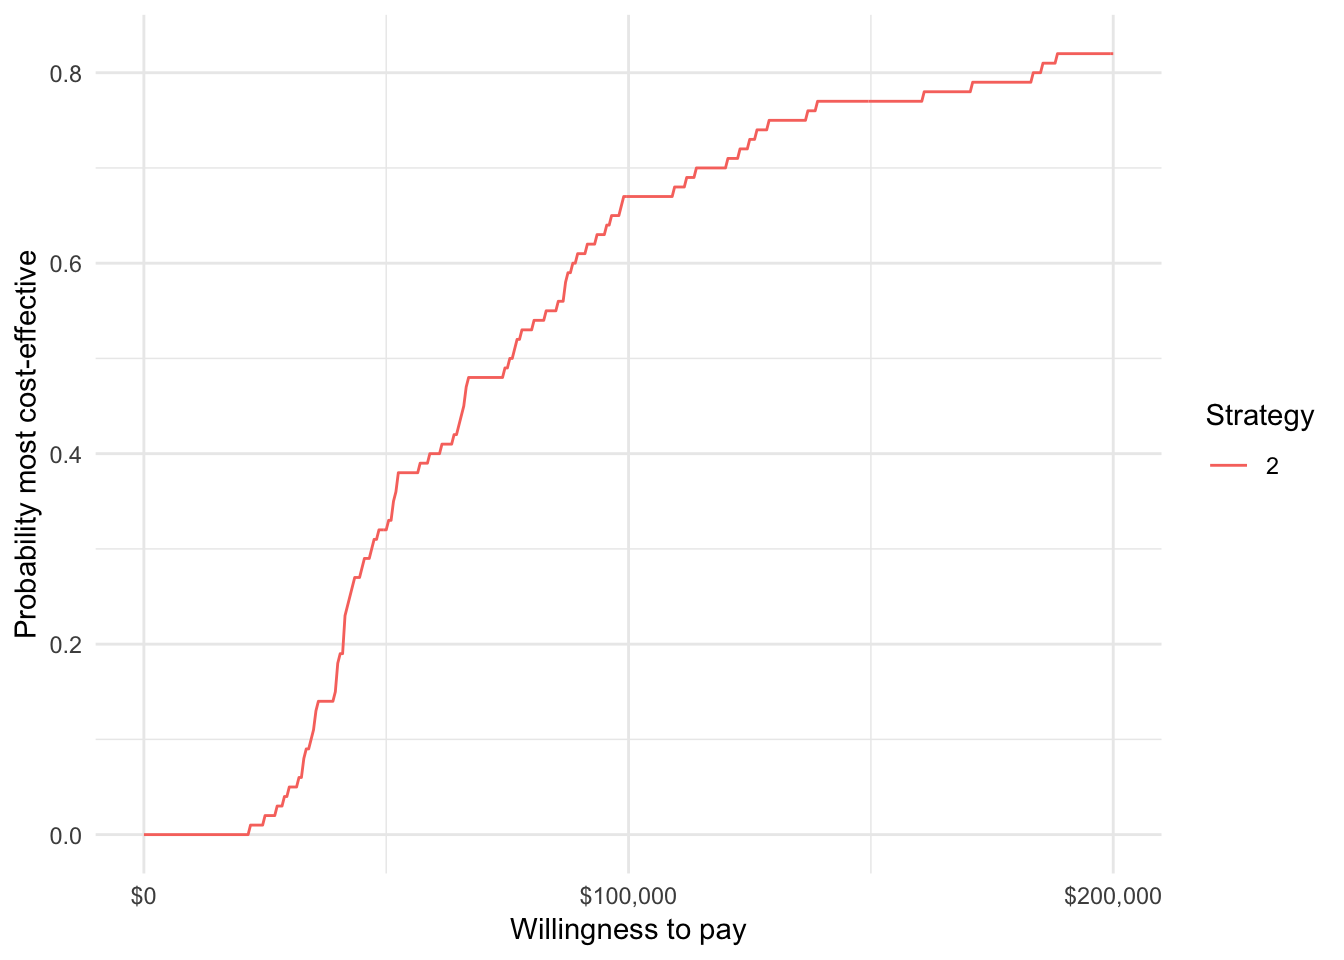
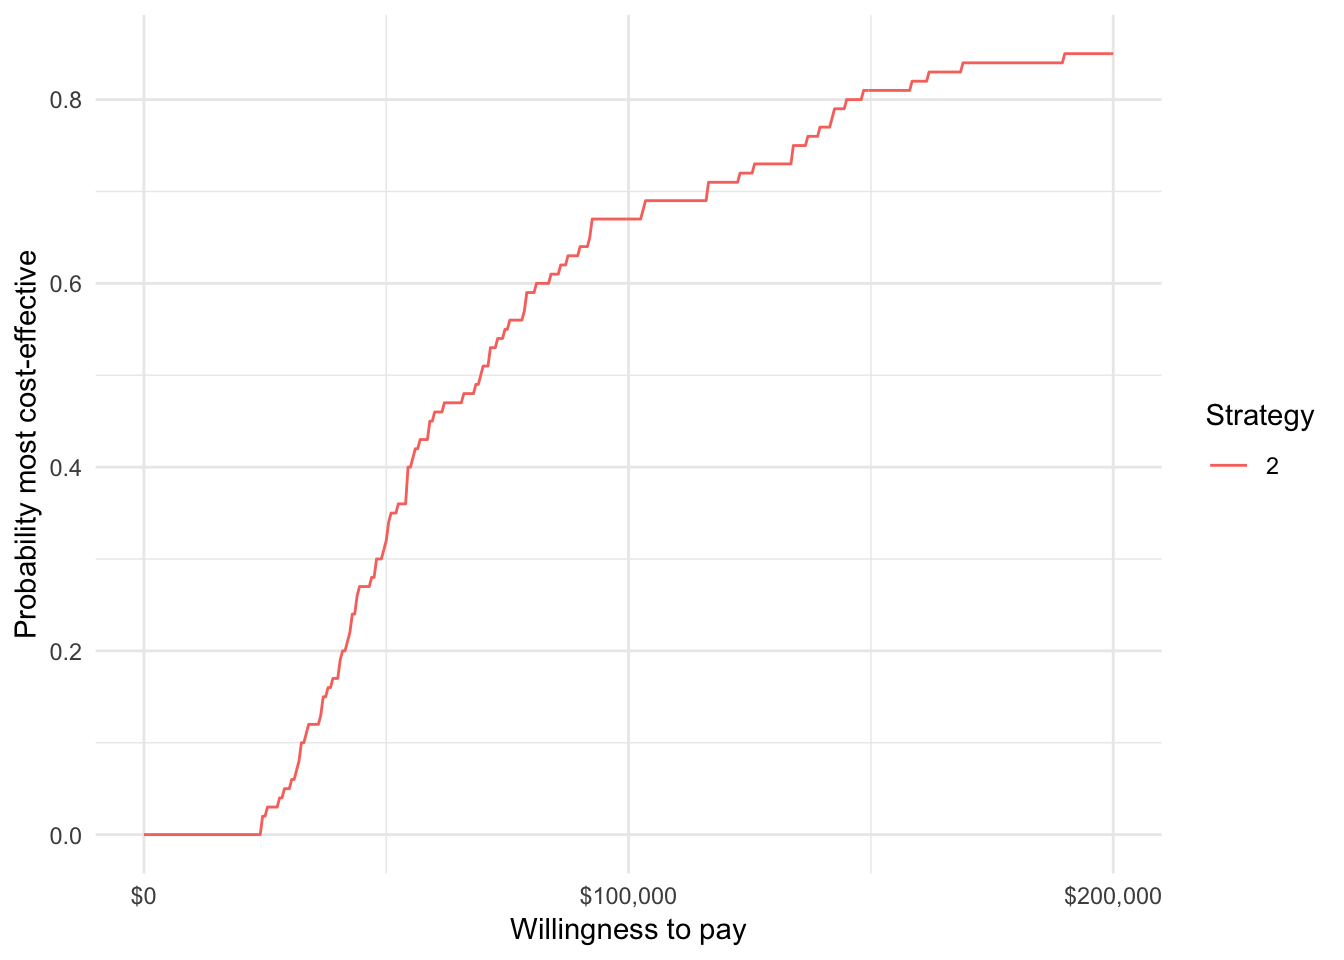
Fix typo in intro vignette

diff --git a/docs/articles/intro.html b/docs/articles/intro.html
@@ -83,7 +83,7 @@
       <h1>Introduction to <code>hesim</code>
 </h1>
             
-            <h4 class="date">2019-01-28</h4>
+            <h4 class="date">2019-01-29</h4>
       
       <small class="dont-index">Source: <a href="https://github.com/InnovationValueInitiative/hesim/blob/master/vignettes/intro.Rmd"><code>vignettes/intro.Rmd</code></a></small>
       <div class="hidden name"><code>intro.Rmd</code></div>
@@ -96,7 +96,7 @@
 <h1 class="hasAnchor">
 <a href="#overview" class="anchor"></a><span class="header-section-number">1</span> Overview</h1>
 <p><code>hesim</code> is an R package for health-economic simulation modeling that is naturally integrated with statistical modeling and provides support for decision analysis.</p>
-<p>As shown in the table below, N-state partitioned survival models (PSMs) and individual-level continuous time state transition models (iCTSTMs) are currently supported. The PSM is a cohort-level model that simulates representative cohorts of patients with similar characteristics while the iCTSTM simulates individual patients probabilistically using random number generation. The models are implemented as <a href="https://r6.r-lib.org/index.html">R6</a> classes and have methods for simulating disease progression, costs, and QALYs. We expected to add cohort-level state transition models in the near future.</p>
+<p>As shown in the table below, N-state partitioned survival models (PSMs) and individual-level continuous time state transition models (iCTSTMs) are currently supported. The PSM is a cohort-level model that simulates representative cohorts of patients with similar characteristics while the iCTSTM simulates individual patients probabilistically using random number generation. The models are implemented as <a href="https://r6.r-lib.org/index.html">R6</a> classes and have methods for simulating disease progression, costs, and QALYs. We expect to add cohort-level state transition models in the near future.</p>
 <table class="table">
 <thead><tr class="header">
 <th align="left">Economic model</th>
@@ -156,17 +156,17 @@ hesim_dat &lt;-<span class="st"> </span><span class="kw"><a href="../reference/h
 ## 
 ## $patients
 ##       patient_id      age female
-##    1:          1 34.88300      0
-##    2:          2 46.86629      1
-##    3:          3 49.31848      0
-##    4:          4 24.61814      0
-##    5:          5 50.63012      0
+##    1:          1 35.93040      0
+##    2:          2 35.82239      0
+##    3:          3 50.28311      0
+##    4:          4 32.73504      0
+##    5:          5 48.08640      0
 ##   ---                           
-##  996:        996 40.98002      1
-##  997:        997 36.07025      0
-##  998:        998 35.89945      1
-##  999:        999 53.79099      1
-## 1000:       1000 44.52351      1
+##  996:        996 41.52376      0
+##  997:        997 55.61670      0
+##  998:        998 41.62055      1
+##  999:        999 35.89651      0
+## 1000:       1000 32.70706      1
 ## 
 ## $states
 ##    state_id state_name
@@ -310,12 +310,12 @@ medcost_tbl &lt;-<span class="st"> </span><span class="kw"><a href="../reference
                         <span class="dt">by =</span> <span class="kw">c</span>(<span class="st">"strategies"</span>, <span class="st">"patients"</span>, <span class="st">"transitions"</span>))
 <span class="kw">head</span>(transmod_data)</code></pre></div>
 <pre><code>##    strategy_id patient_id transition_id      age female from to from_name
-## 1:           1          1             1 34.88300      0    1  2   Healthy
-## 2:           1          1             2 34.88300      0    1  3   Healthy
-## 3:           1          1             3 34.88300      0    2  1      Sick
-## 4:           1          1             4 34.88300      0    2  3      Sick
-## 5:           1          2             1 46.86629      1    1  2   Healthy
-## 6:           1          2             2 46.86629      1    1  3   Healthy
+## 1:           1          1             1 35.93040      0    1  2   Healthy
+## 2:           1          1             2 35.93040      0    1  3   Healthy
+## 3:           1          1             3 35.93040      0    2  1      Sick
+## 4:           1          1             4 35.93040      0    2  3      Sick
+## 5:           1          2             1 35.82239      0    1  2   Healthy
+## 6:           1          2             2 35.82239      0    1  3   Healthy
 ##    to_name trans
 ## 1:    Sick     1
 ## 2:    Dead     2
@@ -390,43 +390,43 @@ costmods &lt;-<span class="st"> </span><span class="kw">list</span>(<span class=
 <div class="sourceCode"><pre class="sourceCode r"><code class="sourceCode r">ictstm<span class="op">$</span><span class="kw">sim_disease</span>()
 <span class="kw">head</span>(ictstm<span class="op">$</span>disprog_)</code></pre></div>
 <pre><code>##    sample strategy_id patient_id from to final time_start time_stop
-## 1:      1           1          1    1  2     0   0.000000  2.580019
-## 2:      1           1          1    2  1     0   2.580019  4.533610
-## 3:      1           1          1    1  2     0   4.533610  7.458124
-## 4:      1           1          1    2  1     0   7.458124  8.493116
-## 5:      1           1          1    1  2     0   8.493116 10.360818
-## 6:      1           1          1    2  1     0  10.360818 14.098959</code></pre>
+## 1:      1           1          1    1  2     0   0.000000  1.595554
+## 2:      1           1          1    2  3     1   1.595554  1.724827
+## 3:      1           1          2    1  3     1   0.000000  7.888299
+## 4:      1           1          3    1  2     0   0.000000  2.669210
+## 5:      1           1          3    2  1     0   2.669210  4.832636
+## 6:      1           1          3    1  2     0   4.832636  6.610701</code></pre>
 <p>The disease trajectory can be summarized with <code>$sim_stateprobs()</code>.</p>
 <div class="sourceCode"><pre class="sourceCode r"><code class="sourceCode r">ictstm<span class="op">$</span><span class="kw">sim_stateprobs</span>(<span class="dt">t =</span> <span class="kw">c</span>(<span class="dv">0</span><span class="op">:</span><span class="dv">10</span>))
 <span class="kw">head</span>(ictstm<span class="op">$</span>stateprobs_)</code></pre></div>
 <pre><code>##    sample strategy_id state_id t  prob
 ## 1:      1           1        1 0 1.000
-## 2:      1           1        1 1 0.700
-## 3:      1           1        1 2 0.584
-## 4:      1           1        1 3 0.483
-## 5:      1           1        1 4 0.422
-## 6:      1           1        1 5 0.365</code></pre>
+## 2:      1           1        1 1 0.668
+## 3:      1           1        1 2 0.552
+## 4:      1           1        1 3 0.473
+## 5:      1           1        1 4 0.395
+## 6:      1           1        1 5 0.357</code></pre>
 <p>We can then compute costs and QALYs (using a discount rate of 3 percent).</p>
 <div class="sourceCode"><pre class="sourceCode r"><code class="sourceCode r"><span class="co"># QALYs</span>
 ictstm<span class="op">$</span><span class="kw">sim_qalys</span>(<span class="dt">dr =</span> .<span class="dv">03</span>)
 <span class="kw">head</span>(ictstm<span class="op">$</span>qalys_)</code></pre></div>
 <pre><code>##    sample strategy_id state_id   dr     qalys       lys
-## 1:      1           1        1 0.03 3.9747597 4.5907913
-## 2:      1           1        2 0.03 0.2381634 1.2780091
-## 3:      1           2        1 0.03 5.1653521 5.9659088
-## 4:      1           2        2 0.03 0.1722739 0.9244391
-## 5:      2           1        1 0.03 2.7880619 3.9631713
-## 6:      2           1        2 0.03 0.8134794 0.9913634</code></pre>
+## 1:      1           1        1 0.03 1.2388465 4.4457746
+## 2:      1           1        2 0.03 0.9426177 1.0166796
+## 3:      1           2        1 0.03 1.6830102 6.0397186
+## 4:      1           2        2 0.03 0.8020732 0.8650924
+## 5:      2           1        1 0.03 3.4186577 4.8615286
+## 6:      2           1        2 0.03 0.7422403 1.0505063</code></pre>
 <div class="sourceCode"><pre class="sourceCode r"><code class="sourceCode r"><span class="co"># Costs</span>
 ictstm<span class="op">$</span><span class="kw">sim_costs</span>(<span class="dt">dr =</span> .<span class="dv">03</span>)
 <span class="kw">head</span>(ictstm<span class="op">$</span>costs_)</code></pre></div>
 <pre><code>##    sample strategy_id state_id   dr category     costs
-## 1:      1           1        1 0.03    drugs 22953.957
-## 2:      1           1        2 0.03    drugs  6390.046
-## 3:      1           2        1 0.03    drugs 59659.088
-## 4:      1           2        2 0.03    drugs  9244.391
-## 5:      2           1        1 0.03    drugs 19815.857
-## 6:      2           1        2 0.03    drugs  4956.817</code></pre>
+## 1:      1           1        1 0.03    drugs 22228.873
+## 2:      1           1        2 0.03    drugs  5083.398
+## 3:      1           2        1 0.03    drugs 60397.186
+## 4:      1           2        2 0.03    drugs  8650.924
+## 5:      2           1        1 0.03    drugs 24307.643
+## 6:      2           1        2 0.03    drugs  5252.532</code></pre>
 </div>
 </div>
 <div id="decision-analysis" class="section level1">
@@ -438,31 +438,31 @@ ictstm<span class="op">$</span><span class="kw">sim_costs</span>(<span class="dt
 <span class="kw">print</span>(ce)</code></pre></div>
 <pre><code>## $costs
 ##      category   dr sample strategy_id    costs
-##   1:    drugs 0.03      1           1 29344.00
-##   2:    drugs 0.03      1           2 68903.48
-##   3:    drugs 0.03      2           1 24772.67
-##   4:    drugs 0.03      2           2 74420.97
-##   5:    drugs 0.03      3           1 31323.19
+##   1:    drugs 0.03      1           1 27312.27
+##   2:    drugs 0.03      1           2 69048.11
+##   3:    drugs 0.03      2           1 29560.17
+##   4:    drugs 0.03      2           2 66135.41
+##   5:    drugs 0.03      3           1 26713.03
 ##  ---                                          
-## 596:    total 0.03     98           2 81383.19
-## 597:    total 0.03     99           1 37777.34
-## 598:    total 0.03     99           2 63006.44
-## 599:    total 0.03    100           1 38662.46
-## 600:    total 0.03    100           2 90308.65
+## 596:    total 0.03     98           2 89015.93
+## 597:    total 0.03     99           1 38235.63
+## 598:    total 0.03     99           2 69886.52
+## 599:    total 0.03    100           1 33454.57
+## 600:    total 0.03    100           2 77046.14
 ## 
 ## $qalys
 ##        dr sample strategy_id    qalys
-##   1: 0.03      1           1 4.212923
-##   2: 0.03      1           2 5.337626
-##   3: 0.03      2           1 3.601541
-##   4: 0.03      2           2 5.337307
-##   5: 0.03      3           1 4.291101
+##   1: 0.03      1           1 2.181464
+##   2: 0.03      1           2 2.485083
+##   3: 0.03      2           1 4.160898
+##   4: 0.03      2           2 4.653675
+##   5: 0.03      3           1 3.916445
 ##  ---                                 
-## 196: 0.03     98           2 5.348004
-## 197: 0.03     99           1 3.244439
-## 198: 0.03     99           2 2.879162
-## 199: 0.03    100           1 3.791658
-## 200: 0.03    100           2 4.938641
+## 196: 0.03     98           2 6.031254
+## 197: 0.03     99           1 3.544027
+## 198: 0.03     99           2 3.353062
+## 199: 0.03    100           1 2.757914
+## 200: 0.03    100           2 3.558880
 ## 
 ## attr(,"class")
 ## [1] "ce"</code></pre>
